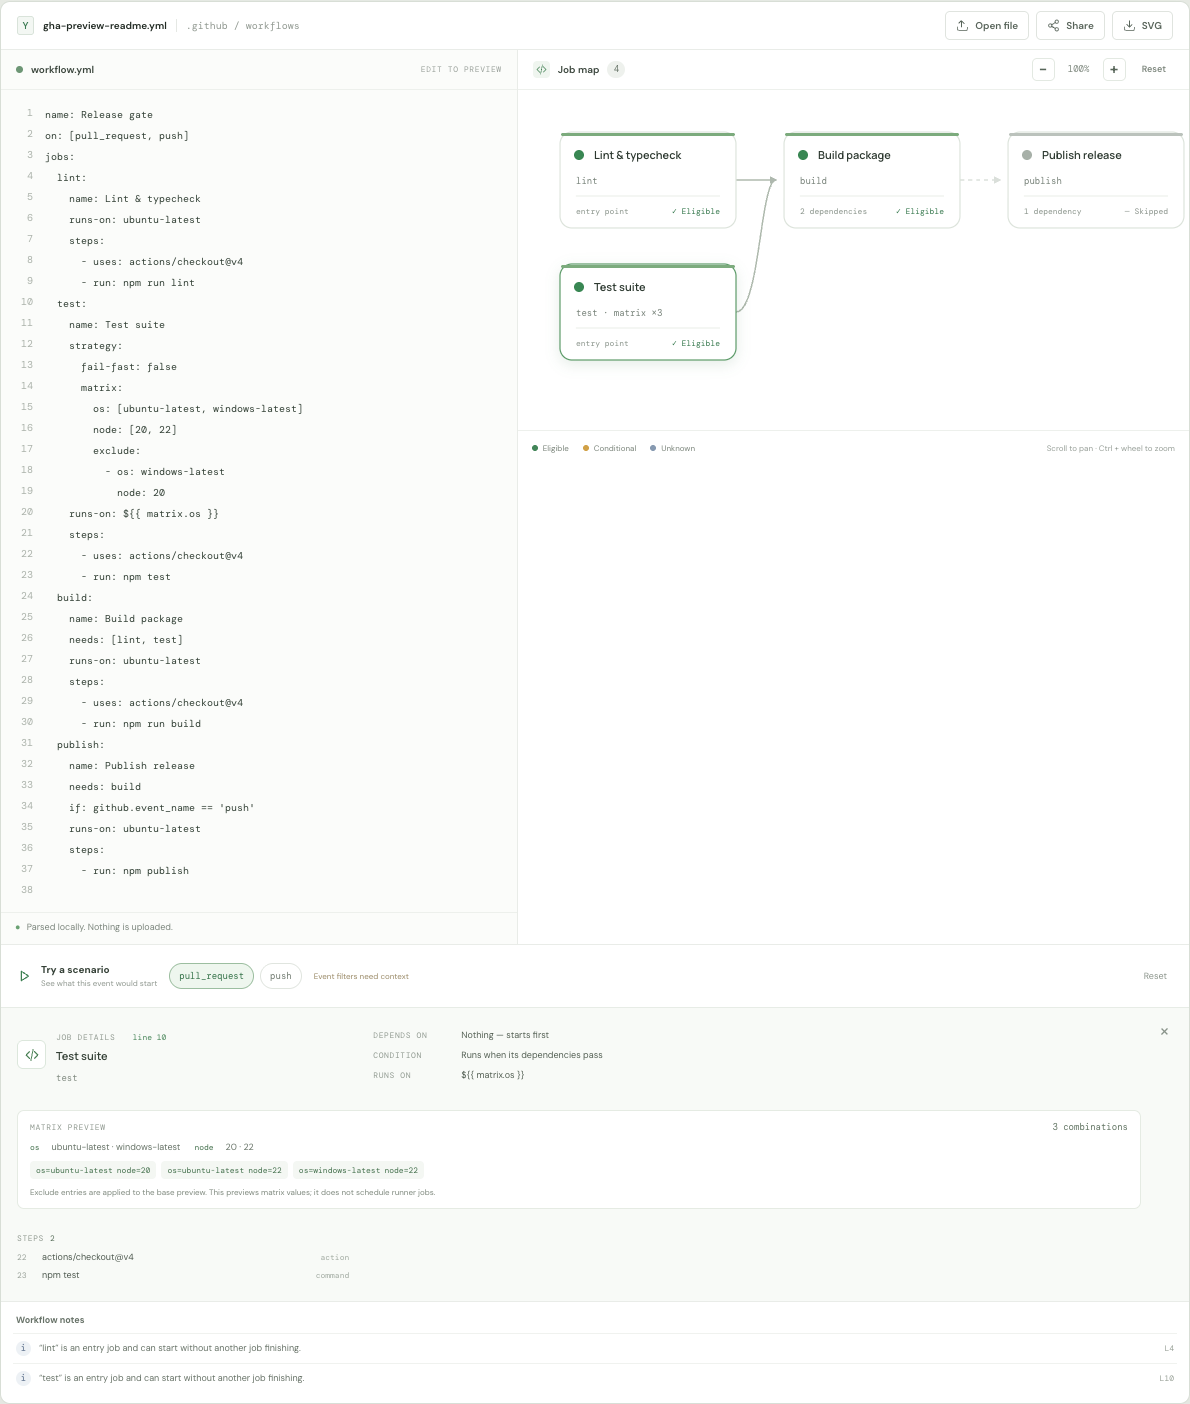
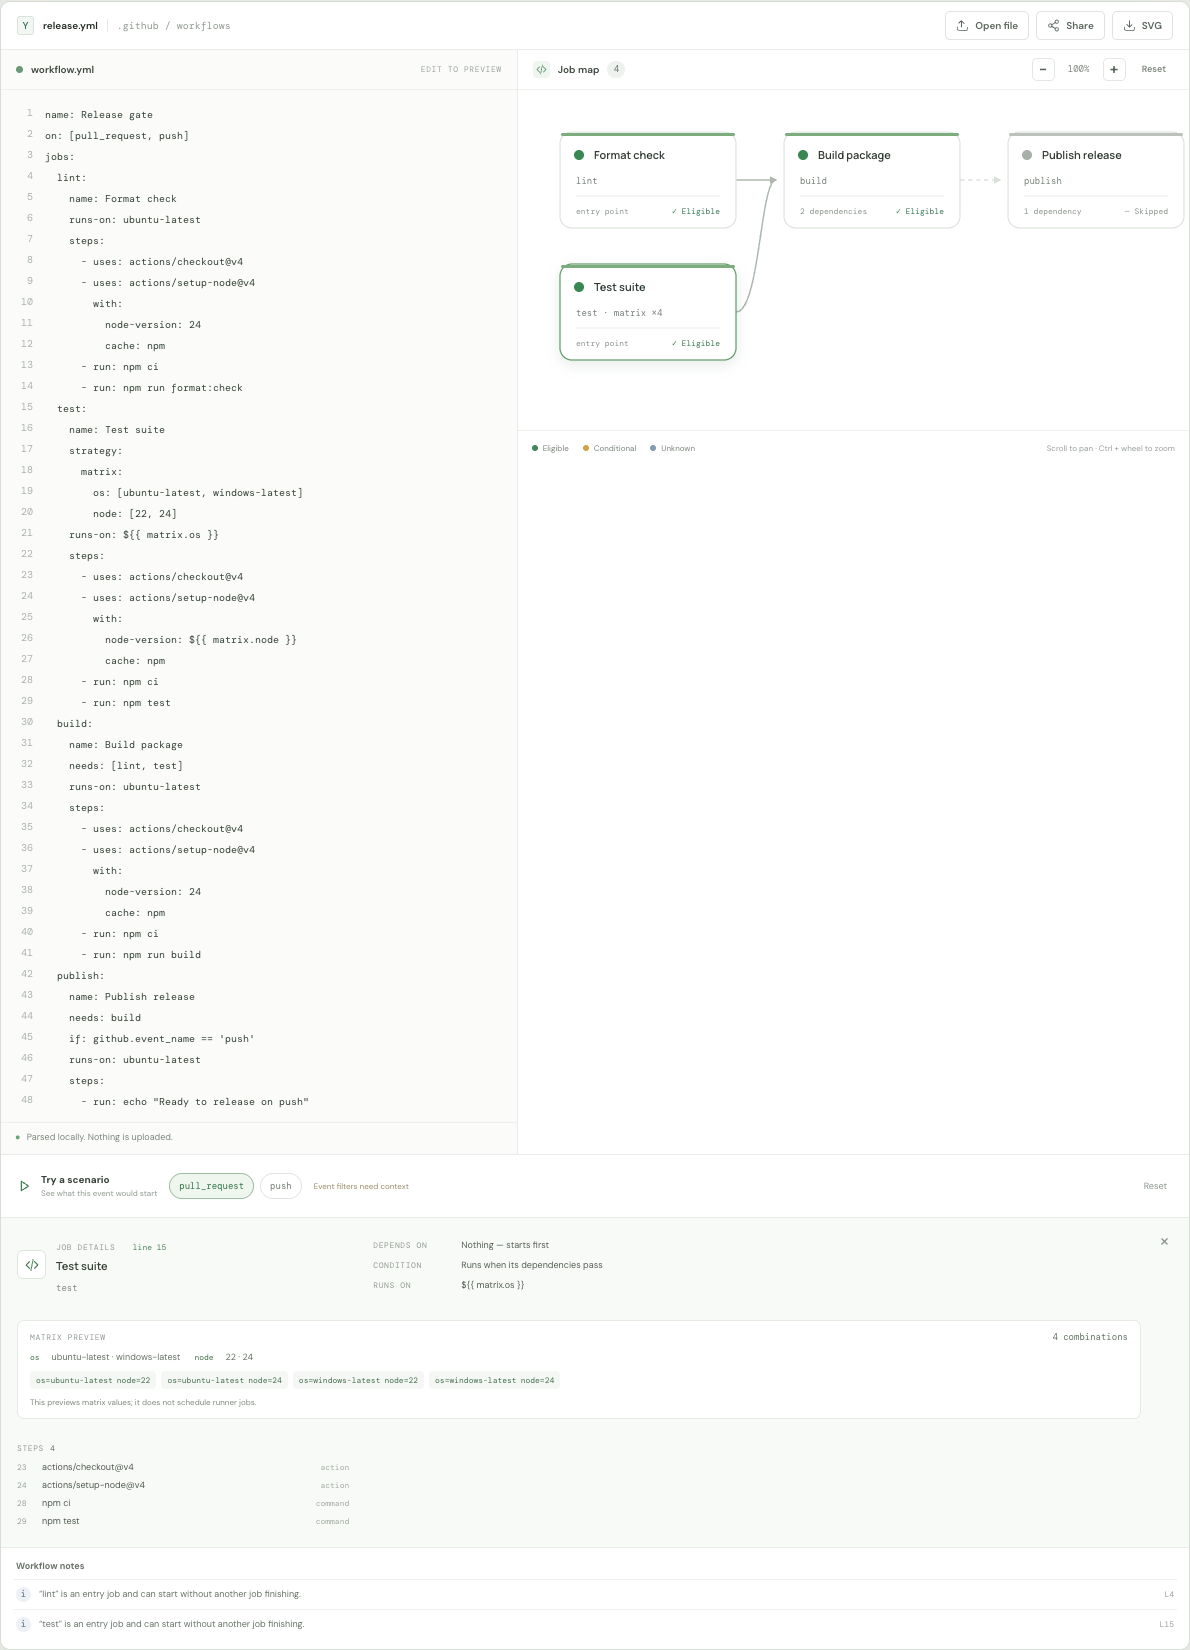
fix: align the default workflow demo

diff --git a/src/main.ts b/src/main.ts
@@ -13,16 +13,30 @@ const sample = `name: Release gate
 on: [pull_request, push]
 jobs:
   lint:
-    name: Lint & typecheck
+    name: Format check
     runs-on: ubuntu-latest
     steps:
       - uses: actions/checkout@v4
-      - run: npm ci && npm run lint
+      - uses: actions/setup-node@v4
+        with:
+          node-version: 24
+          cache: npm
+      - run: npm ci
+      - run: npm run format:check
   test:
     name: Test suite
-    runs-on: ubuntu-latest
+    strategy:
+      matrix:
+        os: [ubuntu-latest, windows-latest]
+        node: [22, 24]
+    runs-on: \${{ matrix.os }}
     steps:
       - uses: actions/checkout@v4
+      - uses: actions/setup-node@v4
+        with:
+          node-version: \${{ matrix.node }}
+          cache: npm
+      - run: npm ci
       - run: npm test
   build:
     name: Build package
@@ -30,16 +44,19 @@ jobs:
     runs-on: ubuntu-latest
     steps:
       - uses: actions/checkout@v4
+      - uses: actions/setup-node@v4
+        with:
+          node-version: 24
+          cache: npm
+      - run: npm ci
       - run: npm run build
   publish:
     name: Publish release
     needs: build
     if: github.event_name == 'push'
     runs-on: ubuntu-latest
-    permissions:
-      contents: write
     steps:
-      - run: npm publish`;
+      - run: echo "Ready to release on push"`;
 
 const icon = (name: string) => {
   const paths: Record<string, string> = {

diff --git a/README.md b/README.md
@@ -26,7 +26,7 @@
 
 1. [Open the live preview](https://maximilianfeix.github.io/gha-preview/).
 2. Select `push` to see the release job become eligible; choose `pull_request` to see it skipped.
-3. Click **Test suite** to inspect its three matrix combinations, then jump to its YAML source.
+3. Click **Test suite** to inspect its four matrix combinations, then jump to its YAML source.
 
 ## Why gha-preview?
 
